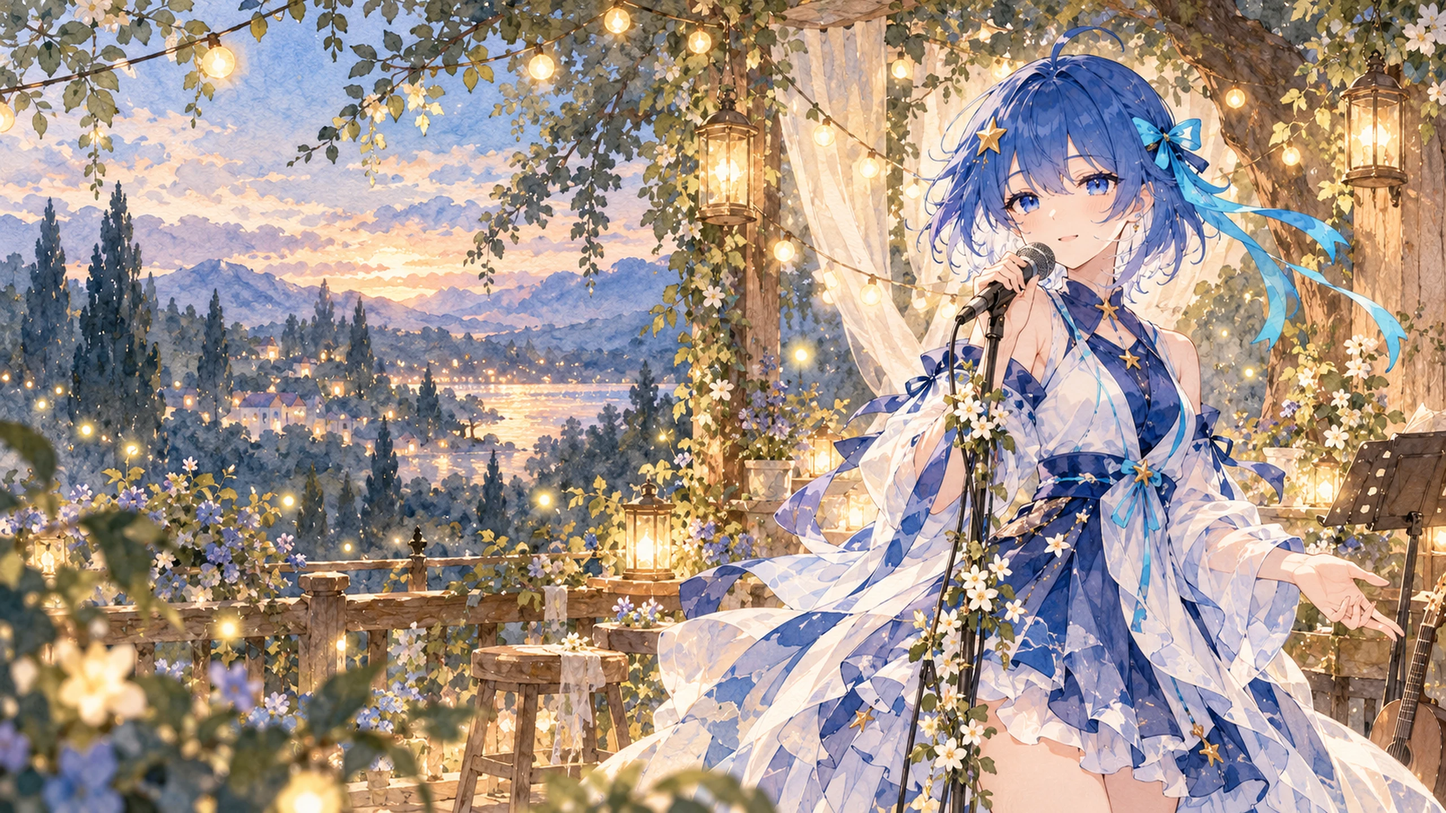
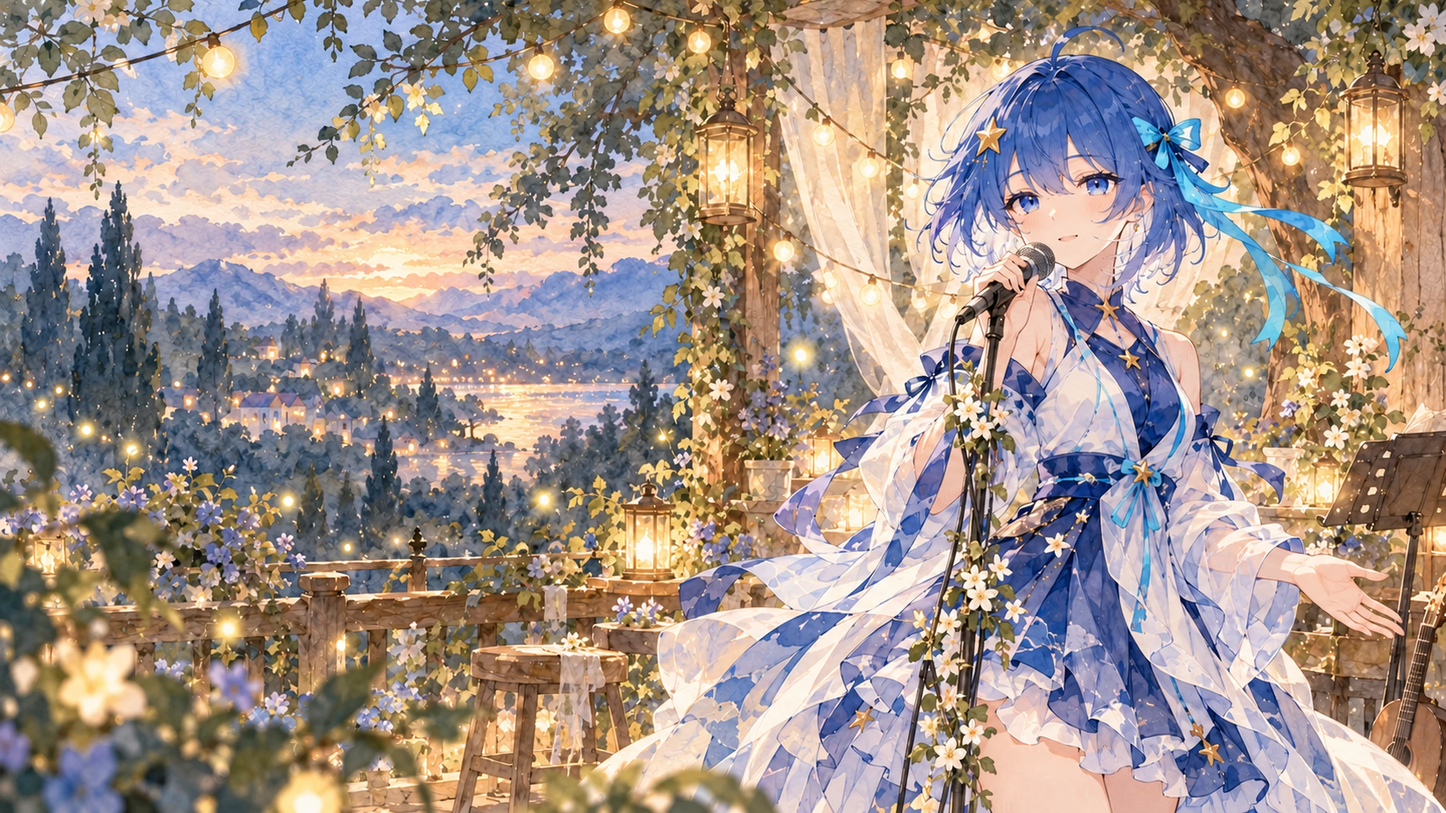
chore(release): prepare v0.8.9b2 from Fluent polish branch

diff --git a/bilibili_downloader/__init__.py b/bilibili_downloader/__init__.py
@@ -1,3 +1,3 @@
 """BiliFlow package metadata."""
 
-__version__ = "0.8.9b1"
+__version__ = "0.8.9b2"

diff --git a/docs/BACKGROUND_HAND_REVIEW.md b/docs/BACKGROUND_HAND_REVIEW.md
@@ -2,6 +2,8 @@
 
 2026-10-23，开发分支 `codex/fluent-design-polish`。逐张放大原图，按掌部、拇指连接、其余四指、关节和握持关系检查；合理遮挡不要求五指全部可见，像素画保留简化手形。
 
+补充复核：用户指出「萤光小舞台」左手六指。上轮将折指误判为合理遮挡；本次确认多指并补修，改为清楚可辨的五指摊掌。
+
 | 背景 | 处理与复核 |
 | --- | --- |
 | 云上收藏室 `download-anime-cloud` | 修正上下握胶片手部的拇指连接与重叠指形，消除多指错觉；[前后对比](images/fluent-v2/download-anime-cloud-hands.jpg) |
@@ -9,7 +11,7 @@
 | 海风信笺 `download-watercolor-sea` | 托腮与持卡手有合理遮挡，保留原图 |
 | 霓虹开播 `live-anime-neon` | 托腮握拳轮廓正常，另一手被衣物与身体遮挡，保留原图 |
 | 午夜电台 `live-pixel-radio` | 托腮与桌面手为简化像素形，保留原图 |
-| 萤光小舞台 `live-watercolor-firefly` | 持麦与掌心朝上手形按拇指、伸展指和弯曲指区分，保留原图 |
+| 萤光小舞台 `live-watercolor-firefly` | 修正画面右侧左手的六指，改为一根拇指与四根自然展开的手指，保留摊掌方向、袖口与持麦手；[前后对比](images/fluent-v2/live-watercolor-firefly-hands.jpg) |
 | 星轨调度 `tasks-anime-orbit` | 去掉伸展手多余的指形分叉，整理持盒手的遮挡关系；[前后对比](images/fluent-v2/tasks-anime-orbit-hands.jpg) |
 | 银河货运站 `tasks-pixel-cargo` | 握终端与搭箱手保持简化轮廓，保留原图 |
 | 星笺归档 `tasks-watercolor-letters` | 持信与托信手形有合理遮挡，保留原图 |
@@ -17,13 +19,19 @@
 | 像素小屋 `settings-pixel-cottage` | 握水壶手为简化像素形，保留原图 |
 | 薄荷手帐 `settings-watercolor-journal` | 握笔手与平放手的结构、遮挡合理，保留原图 |
 
-三张修改图使用内置 `image_gen` 编辑，原图宽高仍为 1672×941。已复核人物身份、服装、构图、光照和画风，背景与缩略图由 `scripts/build_background_assets.py` 统一导出。其余九张原图及对应运行时资源保持不变。
+四张修改图使用内置 `image_gen` 编辑，原图宽高仍为 1672×941。已复核人物身份、服装、构图、光照和画风，背景与缩略图由 `scripts/build_background_assets.py` 统一导出。其余八张原图及对应运行时资源保持不变。
 
-运行时插画为 2560×1440 WebP，像素画为 640×360 PNG，缩略图为 320×180 PNG；全十二景及缩略图合计 **7.84 MiB**，低于 12 MiB 预算。全部 `builtin:` 引用和资源路径保持兼容。修改前原图可从 `v0.8.9b1` 标签取得，原图现存于 `docs/images/backgrounds/originals/`，运行时文件位于 `bilibili_downloader/gui/assets/backgrounds/`。
+运行时插画为 2560×1440 WebP，像素画为 640×360 PNG，缩略图为 320×180 PNG；全十二景及缩略图合计 **7.75 MiB**，低于 12 MiB 预算。全部 `builtin:` 引用和资源路径保持兼容。修改前原图可从 `v0.8.9b1` 标签取得，原图现存于 `docs/images/backgrounds/originals/`，运行时文件位于 `bilibili_downloader/gui/assets/backgrounds/`。
 
 ## 实际编辑提示词
 
-每次只提供对应原图作为编辑目标，`transparent_background=false`。以下为三次调用的提示词，未使用 CLI 或外部图片接口。
+每次只提供对应原图作为编辑目标，`transparent_background=false`。以下为四张最终采用图片的编辑提示词，未使用 CLI 或外部图片接口。
+
+### 萤光小舞台（补修）
+
+```text
+Use case: precise-object-edit. Image 1 is the EDIT TARGET: the existing BiliFlow wallpaper live-watercolor-firefly.png. Repair ONLY the girl's anatomical LEFT hand, the open welcoming hand on the far RIGHT of the picture at x=87%-98%, y=67%-80%. It has six fingers. Redraw just this small hand as an anatomically natural open palm with exactly FIVE clearly countable digits: ONE thumb plus FOUR fingers. Keep the palm-up welcoming gesture and the same wrist, hand position, hand size and sleeve boundary. Let the four fingers be gently extended/curved and subtly fanned so each fingertip is individually readable; avoid the original tangled folded-finger bunch. The thumb must join the side of the palm naturally and the four fingers must arise from the knuckle arc, with sensible lengths. No extra digit, no duplicate fingertips, no fused/forked fingers and no extra finger-like crease protrusions. Preserve all other parts of the image as closely as possible: exact face and identity, hair, star clip, ribbons, clothes, the OTHER hand holding the microphone, microphone stand, flowers, terrace, lanterns, city, river, watercolor texture, original color palette and lighting. This is a local hand anatomy correction, not a redesign. Keep exactly 1672x941 pixels and full landscape framing; no cropping, text, watermark or new objects.
+```
 
 ### 星轨调度
 

diff --git a/docs/FLUENT_V2_VALIDATION.md b/docs/FLUENT_V2_VALIDATION.md
@@ -1,13 +1,13 @@
 # Fluent 第二轮精修验收
 
-2026-10-23，开发分支 `codex/fluent-design-polish`。本轮没有修改 `0.8.9b1` 版本号，也没有创建、移动发布标签或发布新安装包。用户复现基准为 **Windows 11、100%、单屏**。
+2026-10-23，开发分支 `codex/fluent-design-polish`。本记录汇总第二轮界面与背景复核，纳入 `v0.8.9b2` 预发布版；既有 `v0.8.9b1` 标签保留。用户复现基准为 **Windows 11、100%、单屏**。
 
 ## 实现与兼容范围
 
 - Windows 主窗口按钮由应用统一绘制，与页头共用底色；热区为 46×32 逻辑像素，图标为 DPI 对齐的矢量线条。保留原生窗口身份、系统菜单、拖动和缩放，关闭继续进入原有生命周期流程。
 - 更新说明使用 Qt Markdown 文档与只读阅读控件，保留标题、列表、引用、代码、表格和链接；支持选择、复制、换行及滚动，主题变化保留选区与阅读位置。
 - 共用控件采用中性悬停／按下层，减弱卡片及表格分隔，规格标签按内容宽度居中；页签仅在键盘操作时显示焦点框。
-- 十二景中三张修正手部，ID 与路径不变；[逐张检查和对比](BACKGROUND_HAND_REVIEW.md)包含实际提示词。
+- 十二景中四张修正手部，ID 与路径不变；[逐张检查和对比](BACKGROUND_HAND_REVIEW.md)包含实际提示词。
 - API、CLI、配置、账号、任务数据库和更新协议保持兼容。背景可见度、模糊与已有选择保持原值，玻璃仍共用工作区模糊缓存。
 
 ## 本机验证
@@ -19,7 +19,7 @@
 | 完整离屏 pytest | 1031 通过、5 项平台相关跳过 |
 | Cocoa 原生界面与生命周期 | 122 通过 |
 | Ruff、编译与 diff | 通过 |
-| 十二景资源 | 12 张与缩略图完整，共 7.84 MiB，引用兼容检查通过 |
+| 十二景资源 | 12 张与缩略图完整，共 7.75 MiB，引用兼容检查通过 |
 
 生命周期子进程测试在等待退出时继续处理父 GUI 事件，覆盖 Cocoa 的激活交接；没有放宽退出时限或删除生命周期场景。
 
@@ -39,9 +39,15 @@ GitHub 托管环境为 **Windows Server 2025（10.0.26100）**，不等同于用
 
 ## 截图与复现
 
-两套配色 × 深浅模式 × `900×640`、`1120×760`、`1320×860` 的原生全页面及关键弹窗保存在 `build/fluent-v2/`。完整本地浏览入口为 `build/fluent-v2/index.html`，按平台、配色、尺寸或状态筛选，包含 **1844 张**截图与对比；主要截图同步到 `docs/images/`。Windows 完整矩阵下载于 `windows-ui-final/`，按钮专项下载于 `windows-final/`，原始证据同时保存在对应 CI artifact。
+两套配色 × 深浅模式 × `900×640`、`1120×760`、`1320×860` 的原生全页面及关键弹窗保存在 `build/fluent-v2/`。完整本地浏览入口为 `build/fluent-v2/index.html`，按平台、配色、尺寸或状态筛选，收录完整矩阵与局部对比；主要截图同步到 `docs/images/`。Windows 完整矩阵下载于 `windows-ui-final/`，按钮专项下载于 `windows-final/`，原始证据同时保存在对应 CI artifact。
 
 截图中的账号、任务、路径与更新版本为离线演示数据；更新弹窗显示的 `0.9.0b1` 用于演示可更新状态，不代表发布了该版本。像素复核数据保存在 `build/fluent-v2/windows-final/glyph-geometry.json`。
+
+## 萤光小舞台补修
+
+2026-10-23，用户补充指出 `live-watercolor-firefly.png` 左手六指。已用内置 imagegen 重绘为一根拇指与四根自然展开的手指，放大复核并保留[前后对比](images/fluent-v2/live-watercolor-firefly-hands.jpg)。原图仍为 1672×941，运行时背景、缩略图、十二景总览及原生／离屏文档预览同步更新，其余十一张背景未修改；当前资源总量为 8,130,355 字节（7.75 MiB）。
+
+本次资产补修运行 `tests/test_builtin_backgrounds.py`：**20 项通过**；原生 Cocoa 与离屏图库截图工具均成功完成两套配色、深浅模式及三种尺寸检查。新预览位于 `build/fluent-v2/firefly-native/` 与 `firefly-offscreen/`，局部对比已加入本地索引。上方全量 pytest 与 CI 记录对应补修前的代码验证，本次没有重新执行整轮 CI。
 
 ```bash
 QT_QPA_PLATFORM=offscreen python -m pytest -q

diff --git a/CHANGELOG.md b/CHANGELOG.md
@@ -2,6 +2,33 @@
 
 本项目遵循语义化版本。日期使用 `YYYY-MM-DD` 格式。
 
+## v0.8.9b2 - 2026-10-23
+
+0.8.9 的第二个 beta 版本，基于 `codex/fluent-design-polish` 分支继续打磨 Fluent 界面，重点修复 Windows 窗口按钮、更新说明排版与小流背景手部。保留粉紫／青蓝主题、现有导航和业务流程，账号、配置、任务数据库、录制历史及背景选择保持兼容。
+
+### Changed
+
+- 共用控件采用更柔和的中性悬停／按下层，减弱卡片和表格的重复边框；统一规格标签、行内操作与弹窗材质，页签仅在键盘操作时显示焦点框。
+- 更新说明改用 Qt 原生 Markdown 阅读区，支持标题、列表、强调、引用、代码、表格与链接，可选择、复制和滚动；主题切换保留选区和阅读位置，远程图片不自动加载。
+- 更新说明弹窗默认尺寸调整为 680×520、最小 480×360，并约束在当前屏幕可用区域。
+
+### Fixed
+
+- Windows 主窗口改为应用自绘按钮与 Win32 非客户区适配，移除分层标题栏裁剪补丁。三枚按钮使用连续的 46×32 逻辑像素热区，与页头共用底色，修复底色色差、悬停区域不齐及图标不清晰。
+- 修复无边框最大化时 Qt 与 Win32 状态不同步，以及不可见缩放边框使按钮偏出屏幕的问题；保留系统菜单、拖动、边缘缩放、最小化、还原及关闭／托盘流程。
+- 修复客户端与非客户区消息交错时悬停提前消失、释放重复触发的问题，关闭图标按物理像素清晰绘制；最大化按钮提供 `HTMAXBUTTON` 命中。
+- 修正「云上收藏室」「星轨调度」「午后工坊」「萤光小舞台」四张背景的多指或手部结构，保留背景 ID 与路径；同步原图、运行时背景、缩略图和总览，十二景资源合计 7.75 MiB。
+
+### 验证与试用
+
+- 第二轮界面提交的 15 项跨平台 CI 全部通过；Windows 100%／125%／150%／200% Qt 缩放专项每档 29 项通过，144 张悬停合成截图的图标中心偏差不超过一个物理像素。
+- 本地完整回归 1031 项通过、5 项按条件跳过；原生 Cocoa 专项 122 项通过，萤光小舞台补修后背景专项 20 项通过。范围与截图见[第二轮验收](docs/FLUENT_V2_VALIDATION.md)及[手部前后对比](docs/BACKGROUND_HAND_REVIEW.md)。
+- 四档 Qt 缩放结果来自托管 Windows 桌面；Windows 11 实机、系统 DPI 切换、实际 Snap 浮层与混合 DPI 多屏仍待实测。
+- 发布流水线重新构建和验证 macOS／Windows full/lite ZIP、full DMG／EXE、冻结更新与回滚、媒体样本、SBOM、原生安装验证报告和 SHA-256 清单。
+- 本版标记为 `Pre-release`。自动更新需选择包含预发布版的通道；稳定版通道继续提供正式版本。
+
+[完整提交记录：v0.8.9b1 → v0.8.9b2](https://github.com/itsVicOC/bilibili-downloader/compare/v0.8.9b1...v0.8.9b2)
+
 ## v0.8.9b1 - 2026-10-22
 
 0.8.9 的首个 beta 版本，基于 `codex/fluent-design-polish` 分支提供全界面 Fluent Design 精修。保留粉紫／青蓝、小流、现有导航和下载／录制流程，已有账号、配置、下载任务与录制历史保持兼容。

diff --git a/README.en.md b/README.en.md
@@ -74,11 +74,7 @@ Stable `v0.8.8` fixes the legacy caption that could reappear after clicking a bl
 
 Downloads, live recording, and settings share consistent footer cards. Tabs and task tools retain readable surfaces over custom backgrounds, theme cards distinguish selection from keyboard focus, and record removal uses a quieter action style.
 
-`v0.8.9b1` (0.8.9 beta 1) adds a [Fluent Design polish](docs/FLUENT_DESIGN.md) across the application, with pink buttons and white labels, clearer text selection, and a fix for dark-mode Windows caption-button hover. The pink/purple and blue themes, Xiao Liu, navigation, and download/recording workflows remain available. Try the [beta prerelease](https://github.com/itsVicOC/bilibili-downloader/releases/tag/v0.8.9b1), or select the update channel that includes prereleases. The stable release remains `v0.8.8`. See the [changelog](CHANGELOG.md#v089b1---2026-10-22) and [validation record](docs/UI_READABILITY_VALIDATION.md) (Chinese).
-
-Available quality, codecs, audio tracks, and subtitles depend on the source, your account permissions, and Bilibili's API response.
-
-**Development preview:** This branch continues the Fluent polish with custom Windows caption controls, Markdown release notes, and hand corrections in three wallpapers. README screenshots follow the development branch. These follow-up changes are unreleased; the version and existing tags remain unchanged. See the [second-pass validation](docs/FLUENT_V2_VALIDATION.md) and [wallpaper comparisons](docs/BACKGROUND_HAND_REVIEW.md) (Chinese).
+`v0.8.9b2` (0.8.9 beta 2) continues the [Fluent Design polish](docs/FLUENT_DESIGN.md) on `codex/fluent-design-polish`, with quieter surfaces, custom Windows caption controls, corrected maximize/restore behavior, Markdown release notes, and hand corrections in four wallpapers. The pink/purple and blue themes, Xiao Liu, pink buttons with white labels, navigation, and download/recording workflows remain available. Try the [beta 2 prerelease](https://github.com/itsVicOC/bilibili-downloader/releases/tag/v0.8.9b2), or select the update channel that includes prereleases. The stable release remains `v0.8.8`. See the [changelog](CHANGELOG.md#v089b2---2026-10-23), [second-pass validation](docs/FLUENT_V2_VALIDATION.md), and [wallpaper comparisons](docs/BACKGROUND_HAND_REVIEW.md) (Chinese).
 
 ## Download and install
 

diff --git a/README.md b/README.md
@@ -72,9 +72,7 @@
 
 下载、直播与设置采用统一底部操作卡；页签和任务工具栏保留清晰底色，支持键盘焦点提示。主题卡分别标识选中与焦点，任务记录移除使用轻量操作。
 
-`v0.8.9b1`（0.8.9 beta1）包含 [Fluent Design 全界面精修](docs/FLUENT_DESIGN.md)：保留粉紫／青蓝与小流，统一控件、材质和状态反馈，优化下载选项、任务进度及设置表单；粉色主按钮采用白字，并修复夜间文字选区和 Windows 窗口按钮悬停。试用请查看 [beta 预发布版](https://github.com/itsVicOC/bilibili-downloader/releases/tag/v0.8.9b1)；自动更新需选择包含预发布版的通道。稳定版仍为 `v0.8.8`。[更新日志](CHANGELOG.md#v089b1---2026-10-22) · [验收记录](docs/UI_READABILITY_VALIDATION.md)。
-
-**开发分支预览：** 当前分支继续精修全界面，加入 Windows 自绘窗口按钮、Markdown 更新说明，并修正三张背景的手部。首页截图随开发分支更新；这些后续改动尚未发布，版本号与现有标签保持不变。[第二轮验收](docs/FLUENT_V2_VALIDATION.md) · [背景手部对比](docs/BACKGROUND_HAND_REVIEW.md)。
+`v0.8.9b2`（0.8.9 beta 2）基于 `codex/fluent-design-polish` 分支继续 [Fluent Design 精修](docs/FLUENT_DESIGN.md)：统一中性材质与状态反馈，修复 Windows 窗口按钮的底色、悬停和最大化／还原行为，支持 Markdown 更新说明，并修正四张背景的手部。保留粉紫／青蓝、小流、粉底白字、现有导航及下载／录制流程。试用请查看 [beta 2 预发布版](https://github.com/itsVicOC/bilibili-downloader/releases/tag/v0.8.9b2)；自动更新需选择包含预发布版的通道。稳定版仍为 `v0.8.8`。[更新日志](CHANGELOG.md#v089b2---2026-10-23) · [第二轮验收](docs/FLUENT_V2_VALIDATION.md) · [背景手部对比](docs/BACKGROUND_HAND_REVIEW.md)。
 
 ## 下载与安装
 

diff --git a/docs/README.md b/docs/README.md
@@ -4,11 +4,11 @@
 
 项目入口：[官方网站 · 1008.si](https://1008.si/) · [中文 README](../README.md) · [English README](../README.en.md)。详细指南目前以简体中文为主。
 
-当前 `codex/fluent-design-polish` 分支正在进行第二轮 Fluent 精修，尚未发布新版本。Windows 自绘按钮、Markdown 更新说明、背景手部与截图记录见[第二轮验收](FLUENT_V2_VALIDATION.md)和[背景手部复核](BACKGROUND_HAND_REVIEW.md)。
+`v0.8.9b2`（0.8.9 beta 2）基于 `codex/fluent-design-polish` 分支提供第二轮 Fluent 精修。Windows 自绘按钮、Markdown 更新说明、背景手部与截图记录见[第二轮验收](FLUENT_V2_VALIDATION.md)和[背景手部复核](BACKGROUND_HAND_REVIEW.md)。
 
 `v0.8.9b1`（0.8.9 beta1）的界面规范见 [Fluent Design 精修](FLUENT_DESIGN.md)，包含设计参数、动效规则与视觉验证方法；粉底白字、文本选区及 Windows 标题栏悬停的结果见[可读性验收记录](UI_READABILITY_VALIDATION.md)。
 
-本次文档对应 `v0.8.9b1` 预发布版，稳定版仍为 `v0.8.8`。窗口激活、最大化与还原及双平台界面检查见[视觉规范与验证](UI_DESIGN.md)，小流的十二套动画与时段规则见[小流设计与预览](MASCOT_DESIGN.md)，五类设置、模式与背景玻璃模糊见[用户指南](USER_GUIDE.md)，版本变化和验证范围见[更新日志](../CHANGELOG.md#v089b1---2026-10-22)。
+本次文档对应 `v0.8.9b2` 预发布版，稳定版仍为 `v0.8.8`。窗口激活、最大化与还原及双平台界面检查见[视觉规范与验证](UI_DESIGN.md)，小流的十二套动画与时段规则见[小流设计与预览](MASCOT_DESIGN.md)，五类设置、模式与背景玻璃模糊见[用户指南](USER_GUIDE.md)，版本变化和验证范围见[更新日志](../CHANGELOG.md#v089b2---2026-10-23)。
 
 ## 推荐阅读路线
 

diff --git a/docs/UI_DESIGN.md b/docs/UI_DESIGN.md
@@ -2,7 +2,7 @@
 
 ## 第二轮 Fluent 精修（2026-10-23，开发分支）
 
-Windows 主窗口改为自绘窗口按钮，默认底色与页头连续，移除分层标题栏裁剪；更新说明使用主题化 Markdown 阅读区，十二景中三张手部得到修正。共用控件进一步采用中性状态层与弱描边，页签保留键盘焦点并消除鼠标操作后的整圈焦点框。当前规则见 [Fluent 规范](FLUENT_DESIGN.md)，结果与验证边界见[第二轮验收](FLUENT_V2_VALIDATION.md)。以下章节保留历次迭代记录。
+Windows 主窗口改为自绘窗口按钮，默认底色与页头连续，移除分层标题栏裁剪；更新说明使用主题化 Markdown 阅读区，十二景中四张手部得到修正。共用控件进一步采用中性状态层与弱描边，页签保留键盘焦点并消除鼠标操作后的整圈焦点框。当前规则见 [Fluent 规范](FLUENT_DESIGN.md)，结果与验证边界见[第二轮验收](FLUENT_V2_VALIDATION.md)。以下章节保留历次迭代记录。
 
 ## Fluent Design 全界面精修（2026-10-22）
 
